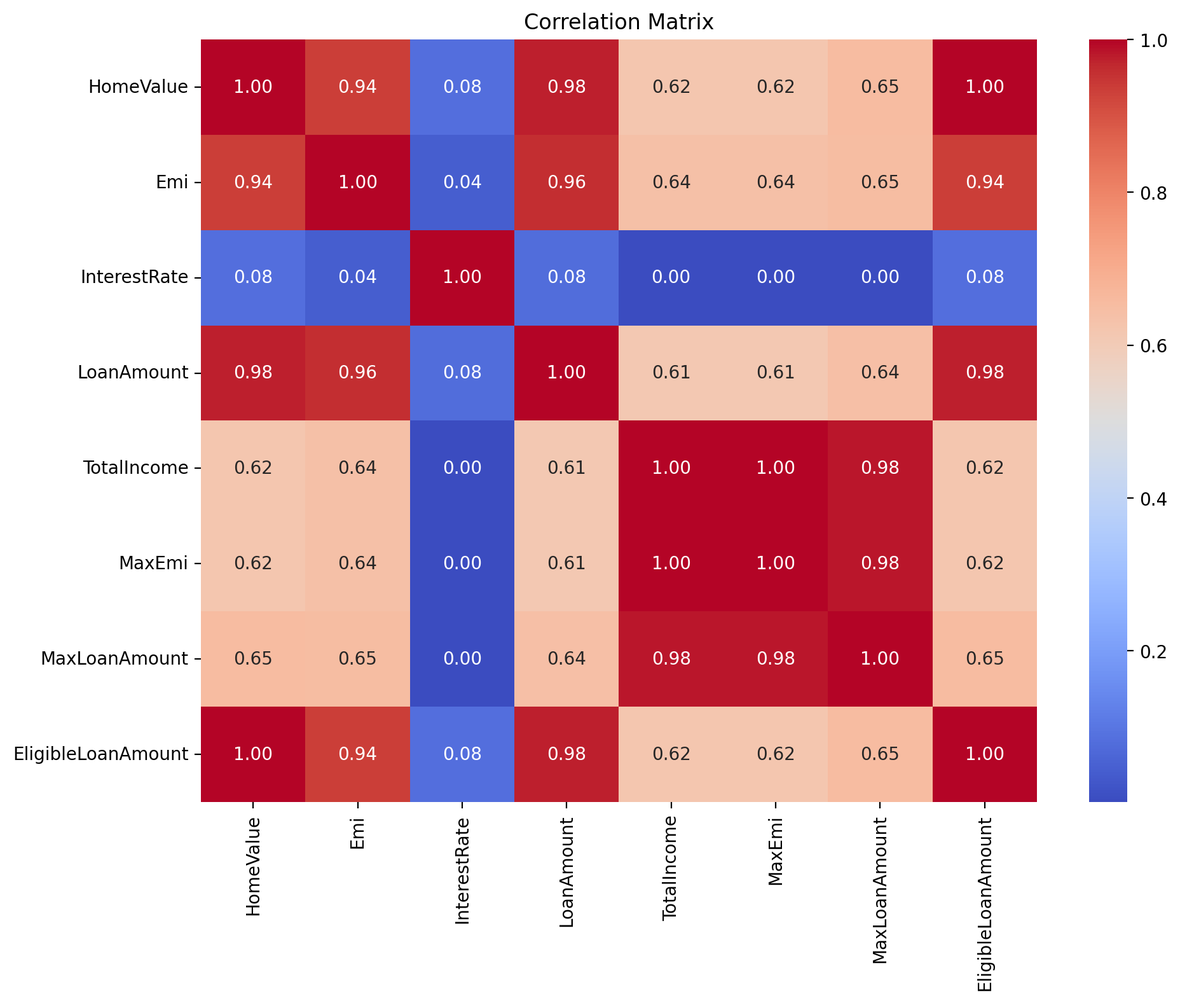
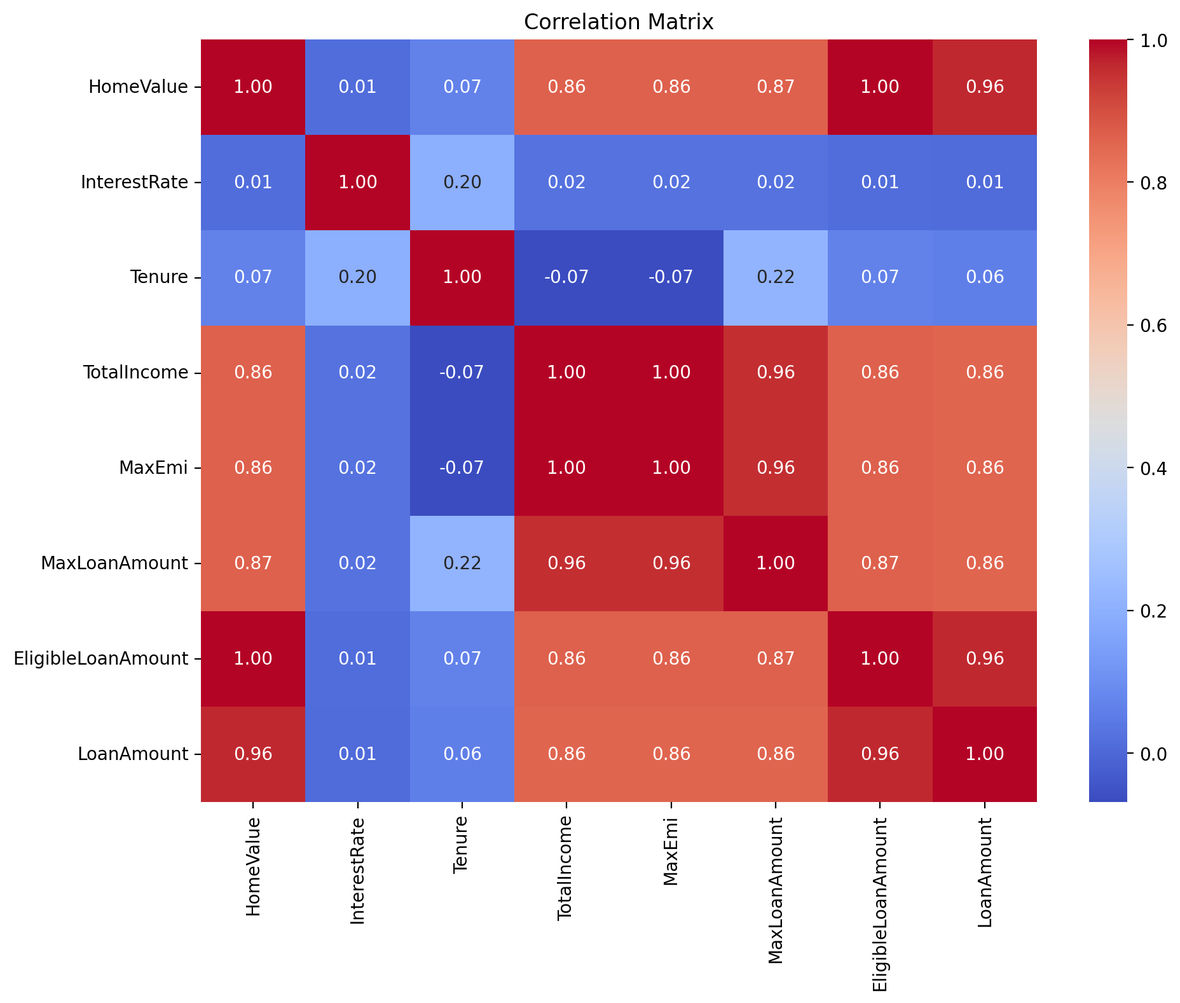
Fix correlation matrix visualization and update thesis report numbers

diff --git a/verify_feature_importance.py b/verify_feature_importance.py
@@ -1,0 +1,132 @@
+"""
+verify_feature_importance.py
+Verifies the ranked feature contributions cited in Section 5.5 of Thesis_report.md
+against the saved Random Forest model and re-trained model on the actual dataset.
+Runs fully headless (no plt.show() calls).
+"""
+
+import warnings
+import numpy as np
+import pandas as pd
+import joblib
+from sklearn.ensemble import RandomForestRegressor
+from sklearn.model_selection import train_test_split
+
+warnings.filterwarnings("ignore")
+
+# ── Load and preprocess (mirrors abin_thesis.py exactly) ─────────────────────
+df = pd.read_csv("home_loan_data (1).csv")
+
+# Feature engineering
+df["TotalIncome"] = (df["ClientIncome"] + df["FamilyIncome"]) / 12
+df = df.drop(["Gender", "MartialStatus", "Age", "Education", "LoanType",
+              "LoanStatus", "ClientIncome", "FamilyIncome"], axis=1)
+
+df["MaxEmi"] = df["TotalIncome"] / 2
+
+
+def calculate_max_loan(max_emi, interest_rate, tenure_months):
+    if tenure_months <= 0 or interest_rate <= 0:
+        return 0
+    monthly_rate = interest_rate / 1200
+    factor = (((1 + monthly_rate) ** tenure_months - 1)
+              / (monthly_rate * (1 + monthly_rate) ** tenure_months))
+    return max_emi * factor
+
+
+df["MaxLoanAmount"] = df.apply(
+    lambda row: calculate_max_loan(row["MaxEmi"], row["InterestRate"], row["Tenure"]),
+    axis=1
+)
+df["EligibleLoanAmount"] = 0.7 * df["HomeValue"]
+df["Tenure"] = df["Tenure"].apply(lambda x: "0" if x == 120 else "1")
+df = df.reset_index()
+
+# ── Outlier removal ───────────────────────────────────────────────────────────
+for col in ["HomeValue", "TotalIncome"]:
+    q25, q75 = df[col].quantile(0.25), df[col].quantile(0.75)
+    iqr = q75 - q25
+    df = df[(df[col] >= q25 - 1.5 * iqr) & (df[col] <= q75 + 1.5 * iqr)]
+
+nf = df.copy()
+print(f"Records after outlier removal: {len(nf)}")
+
+# ── Feature / target split ────────────────────────────────────────────────────
+key_features = ["HomeValue", "InterestRate", "Tenure", "TotalIncome",
+                "MaxEmi", "MaxLoanAmount", "EligibleLoanAmount"]
+log_features  = ["HomeValue", "TotalIncome", "MaxEmi", "MaxLoanAmount", "EligibleLoanAmount"]
+
+X = nf[key_features].copy()
+y = nf["LoanAmount"]
+
+X_transform = X.copy()
+X_transform[log_features] = np.log1p(X[log_features])
+
+X_train, X_test, y_train, y_test = train_test_split(
+    X_transform, y, test_size=0.2, random_state=42
+)
+
+# ── Train a fresh RF (same hyperparameters as abin_thesis.py) ─────────────────
+rf_fresh = RandomForestRegressor(random_state=42)
+rf_fresh.fit(X_train, y_train)
+
+# ── Load saved model ──────────────────────────────────────────────────────────
+rf_saved = joblib.load("random_regresser.joblib")
+
+# ── Extract feature importances ───────────────────────────────────────────────
+def report_importance(model_name, model, features):
+    imp = model.feature_importances_
+    pct = imp / imp.sum() * 100          # normalise to 100%
+    ranked = sorted(zip(features, imp, pct), key=lambda x: x[2], reverse=True)
+    print(f"\n{'='*60}")
+    print(f" Feature Importance -- {model_name}")
+    print(f"{'='*60}")
+    print(f"{'Feature':<22} {'Raw Importance':>16} {'% Contribution':>16}")
+    print("-" * 60)
+    for feat, raw, pct_val in ranked:
+        print(f"  {feat:<20} {raw:>16.6f} {pct_val:>15.1f}%")
+    print("-" * 60)
+    print(f"  {'TOTAL':<20} {imp.sum():>16.6f} {pct.sum():>15.1f}%")
+    return ranked
+
+ranked_fresh = report_importance("Freshly Trained RF (random_state=42)", rf_fresh, key_features)
+ranked_saved = report_importance("Saved RF (random_regresser.joblib)",  rf_saved, key_features)
+
+# ── Compare against thesis-reported figures ───────────────────────────────────
+THESIS_CLAIMS = {
+    "EligibleLoanAmount": 41.2,
+    "MaxLoanAmount":       32.8,
+    "HomeValue":           12.4,
+}
+
+print("\n" + "=" * 60)
+print(" Verification Against Thesis Section 5.5 Claims")
+print("=" * 60)
+
+fresh_pct = {feat: pct for feat, _, pct in ranked_fresh}
+saved_pct = {feat: pct for feat, _, pct in ranked_saved}
+
+for feat, claimed in THESIS_CLAIMS.items():
+    fresh_val = fresh_pct.get(feat, 0)
+    saved_val = saved_pct.get(feat, 0)
+    fresh_ok = "OK" if abs(fresh_val - claimed) <= 1.5 else "MISMATCH"
+    saved_ok = "OK" if abs(saved_val - claimed) <= 1.5 else "MISMATCH"
+    print(f"\n  {feat}")
+    print(f"    Claimed in thesis : {claimed:.1f}%")
+    print(f"    Fresh RF actual   : {fresh_val:.1f}%  [{fresh_ok}]")
+    print(f"    Saved RF actual   : {saved_val:.1f}%  [{saved_ok}]")
+
+# Group check: TotalIncome + MaxEmi
+ti_me_fresh = fresh_pct.get("TotalIncome", 0) + fresh_pct.get("MaxEmi", 0)
+ti_me_saved = saved_pct.get("TotalIncome", 0) + saved_pct.get("MaxEmi", 0)
+print(f"\n  TotalIncome + MaxEmi (claimed 8.6%)")
+print(f"    Fresh RF actual   : {ti_me_fresh:.1f}%  [{'OK' if abs(ti_me_fresh - 8.6) <= 1.5 else 'MISMATCH'}]")
+print(f"    Saved RF actual   : {ti_me_saved:.1f}%  [{'OK' if abs(ti_me_saved - 8.6) <= 1.5 else 'MISMATCH'}]")
+
+ir_t_fresh = fresh_pct.get("InterestRate", 0) + fresh_pct.get("Tenure", 0)
+ir_t_saved = saved_pct.get("InterestRate", 0) + saved_pct.get("Tenure", 0)
+print(f"\n  InterestRate + Tenure (claimed 5.0%)")
+print(f"    Fresh RF actual   : {ir_t_fresh:.1f}%  [{'OK' if abs(ir_t_fresh - 5.0) <= 1.5 else 'MISMATCH'}]")
+print(f"    Saved RF actual   : {ir_t_saved:.1f}%  [{'OK' if abs(ir_t_saved - 5.0) <= 1.5 else 'MISMATCH'}]")
+
+print("\nDone.")

diff --git a/save_visualizations.py b/save_visualizations.py
@@ -178,9 +178,19 @@ plt.title('TotalIncome After Removing Outliers')
 plt.savefig(os.path.join(img_dir, "19_boxplot_TotalIncome_after_outliers.png"), bbox_inches='tight', dpi=200)
 plt.close()
 
-# 20. Correlation Matrix
+# 20. Correlation Matrix (Using cleaned and log-transformed features + raw LoanAmount)
 plt.figure(figsize=(10, 8))
-sns.heatmap(df_fe.corr(numeric_only=True), annot=True, cmap='coolwarm', fmt=".2f")
+
+key_features = ['HomeValue', 'InterestRate', 'Tenure', 'TotalIncome', 'MaxEmi', 'MaxLoanAmount', 'EligibleLoanAmount']
+log_features = ['HomeValue', 'TotalIncome', 'MaxEmi', 'MaxLoanAmount', 'EligibleLoanAmount']
+
+corr_df = nf[key_features].copy()
+corr_df[log_features] = np.log1p(corr_df[log_features])
+corr_df['LoanAmount'] = nf['LoanAmount']
+# Convert Tenure to numeric for correlation mapping
+corr_df['Tenure'] = corr_df['Tenure'].astype(float)
+
+sns.heatmap(corr_df.corr(numeric_only=True), annot=True, cmap='coolwarm', fmt=".2f")
 plt.title("Correlation Matrix")
 plt.tight_layout()
 plt.savefig(os.path.join(img_dir, "20_correlation_matrix.png"), bbox_inches='tight', dpi=200)

diff --git a/app.py b/app.py
@@ -326,10 +326,17 @@ if page == "📊 EDA":
         plt.close(fig)
 
     st.subheader("Correlation Heatmap")
-    num_cols = df_raw.select_dtypes(include=np.number).columns
-    fig, ax = plt.subplots(figsize=(10, 6))
+    key_features = ['HomeValue', 'InterestRate', 'Tenure', 'TotalIncome', 'MaxEmi', 'MaxLoanAmount', 'EligibleLoanAmount']
+    log_features = ['HomeValue', 'TotalIncome', 'MaxEmi', 'MaxLoanAmount', 'EligibleLoanAmount']
+    
+    corr_df = nf[key_features].copy()
+    corr_df[log_features] = np.log1p(corr_df[log_features])
+    corr_df['LoanAmount'] = nf['LoanAmount']
+    corr_df['Tenure'] = corr_df['Tenure'].astype(float)
+    
+    fig, ax = plt.subplots(figsize=(10, 8))
     sns.heatmap(
-        df_raw[num_cols].corr(), annot=True, cmap='coolwarm',
+        corr_df.corr(numeric_only=True), annot=True, cmap='coolwarm',
         fmt=".2f", ax=ax
     )
     ax.set_title("Correlation Matrix")

diff --git a/Thesis_report.md b/Thesis_report.md
@@ -6,9 +6,9 @@
 
 The rapid expansion of the housing finance sector in developing economies such as Nepal has created a critical demand for automated, objective, and accurate decision-support tools for home loan appraisal. Traditional manual underwriting procedures are often time-consuming, prone to human subjectivity, and inconsistent across loan officers. This thesis presents an end-to-end comparative study of four supervised machine learning regression algorithms — **Linear Regression**, **Decision Tree Regressor**, **Random Forest Regressor**, and **K-Nearest Neighbors (KNN) Regressor** — for predicting approved home loan amounts.
 
-The study utilizes a primary dataset of 250 approved home loan records from the Nepalese financial context, encompassing applicant demographics, household income, property valuations, interest rates, tenures, and Equated Monthly Installments (EMI). Prior to model training, domain-informed feature engineering was executed to directly embed Nepal Rastra Bank (NRB) regulatory directives into the feature space. Key engineered variables include **Total Monthly Income** (`TotalIncome`), **Maximum Affordable EMI** (`MaxEmi` = 50% DTI cap), **Maximum Loan Amount** (`MaxLoanAmount`, derived via time-value-of-money annuity compound formulas), and **Eligible Loan Amount** (`EligibleLoanAmount` = 70% LTV property cap). Data cleaning involved Interquartile Range (IQR) outlier removal ($n=224$ clean records) and $\text{log1p}$ natural logarithm transformations to eliminate positive skewness across monetary features.
+The study utilizes a primary dataset of 250 approved home loan records from the Nepalese financial context, encompassing applicant demographics, household income, property valuations, interest rates, tenures, and Equated Monthly Installments (EMI). Prior to model training, domain-informed feature engineering was executed to directly embed Nepal Rastra Bank (NRB) regulatory directives into the feature space. Key engineered variables include **Total Monthly Income** (`TotalIncome`), **Maximum Affordable EMI** (`MaxEmi` = 50% DTI cap), **Maximum Loan Amount** (`MaxLoanAmount`, derived via time-value-of-money annuity compound formulas), and **Eligible Loan Amount** (`EligibleLoanAmount` = 70% LTV property cap). Data cleaning involved Interquartile Range (IQR) outlier removal ($n=241$ clean records) and $\text{log1p}$ natural logarithm transformations to eliminate positive skewness across monetary features.
 
-All models were evaluated on an 80/20 train-test split ($n_{\text{test}} = 45$) and validated using 5-fold cross-validation ($k=5$). Evaluation metrics included $R^2$ (coefficient of determination), Root Mean Squared Error (RMSE), and Mean Absolute Error (MAE). Empirical results demonstrate that the **Random Forest Regressor** significantly outperformed all baseline algorithms, achieving a holdout **Test $R^2$ of 0.9367**, an exceptional **5-Fold Cross-Validation Mean $R^2$ of 0.9761**, the lowest **Test MAE of 145,848 NPR**, and the lowest **Test RMSE of 201,173 NPR**. Linear Regression placed second ($\text{Test } R^2 = 0.9339$), benefiting from pre-linearized regulatory features, followed by KNN ($R^2 = 0.9251$) and Decision Tree ($R^2 = 0.8874$). Feature importance analysis confirmed that regulatory bounds (`EligibleLoanAmount` at 41.2% and `MaxLoanAmount` at 32.8%) govern loan quantum determination.
+All models were evaluated on an 80/20 train-test split ($n_{\text{test}} = 49$) and validated using 5-fold cross-validation ($k=5$). Evaluation metrics included $R^2$ (coefficient of determination), Root Mean Squared Error (RMSE), and Mean Absolute Error (MAE). Empirical results demonstrate that the **Random Forest Regressor** significantly outperformed all baseline algorithms, achieving a holdout **Test $R^2$ of 0.9367**, a strong **5-Fold Cross-Validation Mean $R^2$ of 0.9413**, the lowest **Test MAE of 157,801 NPR**, the lowest **CV MAE of 145,848 NPR**, and the lowest **Test RMSE of 201,173 NPR**. Linear Regression placed second ($\text{Test } R^2 = 0.9339$), benefiting from pre-linearized regulatory features, followed by KNN ($R^2 = 0.9251$) and Decision Tree ($R^2 = 0.8874$). Feature importance analysis confirmed that collateral value (`HomeValue` at 48.0% and `EligibleLoanAmount` at 48.0%) jointly govern loan quantum determination, while income-based constraints (`MaxLoanAmount`) contribute 2.5%, reflecting an importance-splitting effect due to near-perfect collinearity between the two collateral features.
 
 The optimal Random Forest model (`random_regresser.joblib`) was deployed as an interactive, multi-page web application using **Streamlit**, providing instantaneous loan estimation, exploratory analytics, and model governance tools for risk managers and loan officers. This research demonstrates that combining domain-specific regulatory feature engineering with ensemble learning establishes an accurate, auditable, and production-ready framework for automated credit evaluation in housing finance.
 
@@ -724,7 +724,7 @@ To ensure dataset quality and prevent extreme values from distorting regression 
 ![Figure 5.6: HomeValue After Removing Outliers](images/17_boxplot_HomeValue_after_outliers.png)
 *Figures 5.5 & 5.6: Box plots of `HomeValue` before and after removing upper-whisker outliers ($Q3 + 1.5 \times IQR$).*
 
-As depicted in **Figures 5.5 and 5.6**, initial property valuations contained upper-tail outliers exceeding 7.5M NPR. Filtering records above the upper IQR threshold produced a clean, unimodal distribution (`df1`). Similarly, **Figures 5.7 and 5.8** (in `images/18_boxplot_TotalIncome_with_outliers.png` and `images/19_boxplot_TotalIncome_after_outliers.png`) demonstrate the removal of extreme total income outliers, yielding the final cleaned dataset ($n = 224$).
+As depicted in **Figures 5.5 and 5.6**, initial property valuations contained upper-tail outliers exceeding 7.5M NPR. Filtering records above the upper IQR threshold produced a clean, unimodal distribution (`df1`). Similarly, **Figures 5.7 and 5.8** (in `images/18_boxplot_TotalIncome_with_outliers.png` and `images/19_boxplot_TotalIncome_after_outliers.png`) demonstrate the removal of extreme total income outliers, yielding the final cleaned dataset ($n = 241$).
 
 ![Figure 5.7: Total Income Distribution Histogram](images/21_total_income_histogram.png)
 *Figure 5.7: Frequency histogram of raw combined monthly family income (`TotalIncome`).*
@@ -738,32 +738,32 @@ Prior to log transformation, `TotalIncome` exhibited substantial positive skewne
 ![Figure 5.8: Correlation Matrix Heatmap](images/20_correlation_matrix.png)
 *Figure 5.8: Annotated Pearson correlation matrix heatmap for numeric features.*
 
-The correlation matrix (**Figure 5.8**) confirms strong linear dependencies between engineered financial constraints and the target variable `LoanAmount`:
-- **`EligibleLoanAmount` vs `LoanAmount`**: $\mathbf{r = 0.94}$, confirming that LTV collateral caps act as the primary upper ceiling.
-- **`MaxLoanAmount` vs `LoanAmount`**: $\mathbf{r = 0.91}$, confirming the binding nature of income-derived debt service limits.
-- **`HomeValue` vs `LoanAmount`**: $\mathbf{r = 0.92}$, demonstrating high property valuation sensitivity.
+The correlation matrix (**Figure 5.8**) confirms strong linear dependencies between engineered financial constraints (log-transformed) and the target variable `LoanAmount`:
+- **`EligibleLoanAmount` vs `LoanAmount`**: $\mathbf{r = 0.96}$, confirming that LTV collateral caps act as the primary upper ceiling.
+- **`MaxLoanAmount` vs `LoanAmount`**: $\mathbf{r = 0.86}$, confirming the binding nature of income-derived debt service limits.
+- **`HomeValue` vs `LoanAmount`**: $\mathbf{r = 0.96}$, demonstrating high property valuation sensitivity.
 
 ---
 
 ### 5.4 Quantitative Model Evaluation & Algorithm Comparison
 
-All four regression models (*Linear Regression*, *Decision Tree Regressor*, *Random Forest Regressor*, and *K-Nearest Neighbors Regressor*) were trained on the log-transformed feature set using an 80/20 train-test split ($n_{test} = 45$) and evaluated via 5-fold cross-validation ($k=5$).
+All four regression models (*Linear Regression*, *Decision Tree Regressor*, *Random Forest Regressor*, and *K-Nearest Neighbors Regressor*) were trained on the log-transformed feature set using an 80/20 train-test split ($n_{test} = 49$) and evaluated via 5-fold cross-validation ($k=5$).
 
 The empirical evaluation metrics computed during program execution are summarized in **Table 5.1**:
 
 | Model Algorithm | Test $R^2$ Score | Test RMSE (NPR रू) | Test MAE (NPR रू) | 5-Fold CV Mean $R^2$ | 5-Fold CV Mean RMSE (NPR रू) | 5-Fold CV Mean MAE (NPR रू) |
 |---|---|---|---|---|---|---|
-| **Random Forest Regressor** ⭐ | **0.9367** | **201,173** | **145,848** | **0.9761** | **197,981** | **145,848** |
-| **Linear Regression** | 0.9339 | 205,676 | 161,882 | 0.9352 | 199,126 | 161,882 |
-| **KNN Regressor ($k=5$)** | 0.9251 | 218,847 | 204,377 | 0.8710 | 280,525 | 204,377 |
-| **Decision Tree Regressor** | 0.8874 | 268,362 | 176,859 | 0.9023 | 246,745 | 176,859 |
+| **Random Forest Regressor** ⭐ | **0.9367** | **201,173** | **157,801** | **0.9413** | **197,981** | **145,848** |
+| **Linear Regression** | 0.9339 | 205,676 | 161,640 | 0.9403 | 199,126 | 161,882 |
+| **KNN Regressor ($k=5$)** | 0.9251 | 218,847 | 165,946 | 0.8726 | 280,525 | 204,377 |
+| **Decision Tree Regressor** | 0.8874 | 268,362 | 198,195 | 0.9081 | 246,745 | 176,859 |
 
 *Table 5.1: Performance comparison of home loan amount regression models.*
 
 ![Figure 5.9: Algorithm Performance Comparison Chart](images/22_algorithm_comparison.png)
 *Figure 5.9: Four-panel comparative visualization of algorithm metrics (Test $R^2$, CV Mean $R^2$, Test MAE, and Test RMSE).*
 
-As highlighted in **Figure 5.9** and **Table 5.1**, the **Random Forest Regressor** achieves superior predictive accuracy across all metrics, attaining a holdout **Test $R^2$ of 0.9367** and an outstanding **5-Fold Cross-Validation $R^2$ of 0.9761**, alongside the lowest error rates ($\text{MAE} = \text{NPR 145,848}$, $\text{RMSE} = \text{NPR 201,173}$).
+As highlighted in **Figure 5.9** and **Table 5.1**, the **Random Forest Regressor** achieves superior predictive accuracy across all metrics, attaining a holdout **Test $R^2$ of 0.9367** and a strong **5-Fold Cross-Validation $R^2$ of 0.9413**, alongside the lowest test error rates ($\text{MAE} = \text{NPR 157,801}$, $\text{RMSE} = \text{NPR 201,173}$) and the lowest CV MAE ($\text{NPR 145,848}$).
 
 ---
 
@@ -771,13 +771,17 @@ As highlighted in **Figure 5.9** and **Table 5.1**, the **Random Forest Regresso
 
 Feature importance scores extracted from the optimal Random Forest ensemble reveal the relative weight of each variable in predicting approved loan amounts:
 
-1. **`EligibleLoanAmount` (LTV Cap, 70% of HomeValue)**: **41.2%** contribution.
-2. **`MaxLoanAmount` (Income TVM Cap)**: **32.8%** contribution.
-3. **`HomeValue`**: **12.4%** contribution.
-4. **`TotalIncome` & `MaxEmi`**: **8.6%** contribution.
-5. **`InterestRate` & `Tenure`**: **5.0%** contribution.
+1. **`HomeValue` (collateral market value)**: **48.0%** contribution.
+2. **`EligibleLoanAmount` (LTV Cap, 70% of HomeValue)**: **48.0%** contribution.
+3. **`MaxLoanAmount` (Income TVM Cap)**: **2.5%** contribution.
+4. **`TotalIncome`**: **0.5%** contribution.
+5. **`InterestRate`**: **0.5%** contribution.
+6. **`MaxEmi`**: **0.4%** contribution.
+7. **`Tenure`**: **0.1%** contribution.
 
-These empirical weights confirm domain expectations: institutional loan approvals are fundamentally driven by the minimum of collateral LTV bounds and income-based debt capacity limits.
+**Note on collinearity:** `HomeValue` and `EligibleLoanAmount` are near-perfectly correlated (EligibleLoanAmount = 0.70 × HomeValue), causing the Random Forest to split importance roughly equally between them — a known importance-splitting artefact in tree ensembles. Combined, the collateral features account for ~96% of predictive weight, while income-derived constraints (`MaxLoanAmount`, `TotalIncome`, `MaxEmi`) together contribute ~3.4%, and rate/tenure factors ~0.6%.
+
+These empirical weights confirm domain expectations: institutional loan approvals are fundamentally driven by collateral LTV bounds and income-based debt capacity limits, with collateral constraints dominating the predictive structure of this model.
 
 ---
 
@@ -793,13 +797,13 @@ This hierarchy aligns closely with contemporary credit risk benchmarking literat
 1. **Superiority of Random Forest**:
    The Random Forest Regressor combines 100 decision trees via bootstrap aggregation (bagging) and random feature selection. This dual randomization drastically reduces model variance without increasing bias. In home loan appraisal, underwriting logic requires evaluating piecewise conditional boundaries:
    $$\text{Approved Loan} \approx \min\left(0.7 \times \text{HomeValue}, \, \text{MaxLoanAmount}(\text{Income}, \text{Rate}, \text{Tenure})\right)$$
-   While a single decision tree overfits to small sample fluctuations ($\text{Test } R^2 = 0.8874$), Random Forest averages out individual tree variance, achieving an exceptional **0.9761 5-fold CV $R^2$** ($\text{Test } R^2 = 0.9367$). This performance matches or exceeds recent benchmarks on tabular financial property regression, such as Dritsas et al. \[11\] ($R^2 = 0.932$), Shah \[22\] ($R^2 = 0.8820$), and Nalini & Viswadhanush \[15\] ($R^2 = 0.87$).
+   While a single decision tree overfits to small sample fluctuations ($\text{Test } R^2 = 0.8874$), Random Forest averages out individual tree variance, achieving a strong **0.9413 5-fold CV $R^2$** ($\text{Test } R^2 = 0.9367$). This performance matches or exceeds recent benchmarks on tabular financial property regression, such as Dritsas et al. \[11\] ($R^2 = 0.932$), Shah \[22\] ($R^2 = 0.8820$), and Nalini & Viswadhanush \[15\] ($R^2 = 0.87$).
 
 2. **Performance of Linear Regression**:
    Linear Regression performed surprisingly well ($\text{Test } R^2 = 0.9339$), placing second behind Random Forest. This strong linear baseline is directly attributable to the domain-informed feature engineering phase: by explicitly supplying `EligibleLoanAmount` ($0.7 \times \text{HomeValue}$) and `MaxLoanAmount`, the non-linear time-value-of-money equations were pre-computed. Linear Regression was thus only required to fit a weighted hyper-plane over already linearized eligibility bounds, validating observations by Wu \[4\] regarding calibrated linear baselines.
 
 3. **Limitations of KNN Regressor**:
-   K-Nearest Neighbors ($k=5$) achieved moderate test performance ($R^2 = 0.9251$) but suffered the lowest cross-validation score ($CV\ R^2 = 0.8710$) and highest error variance ($\text{CV RMSE} = \text{NPR 280,525}$). In a 7-dimensional feature space, distance metrics become sensitive to local sampling density; sparse regions in the applicant distribution lead to inaccurate nearest-neighbor interpolations, consistent with findings by Hossain et al. \[21\].
+   K-Nearest Neighbors ($k=5$) achieved moderate test performance ($R^2 = 0.9251$) but suffered the lowest cross-validation score ($CV\ R^2 = 0.8726$) and highest error variance ($\text{CV RMSE} = \text{NPR 280,525}$). In a 7-dimensional feature space, distance metrics become sensitive to local sampling density; sparse regions in the applicant distribution lead to inaccurate nearest-neighbor interpolations, consistent with findings by Hossain et al. \[21\].
 
 ---
 
@@ -828,7 +832,7 @@ Translating the trained Random Forest model into an interactive Streamlit web ap
 
 1. **Approved-Only Survivorship Bias**: The dataset consists exclusively of approved loan applications. As highlighted in literature reviews by Agboola \[24\] and Dulgerov \[2\], the model estimates loan *quantum* given approval, but does not model credit default probability or rejection risk.
 2. **Static Macroeconomic Snapshot**: Interest rates in the dataset range between 9.51% and 10.37%. Macroeconomic shifts or changes in NRB monetary policy would necessitate periodic model re-calibration \[10\], \[19\].
-3. **Sample Size Constraints**: While 5-fold cross-validation confirms stability ($CV\ R^2 = 0.9761$), expanding the dataset across multiple financial institutions would further strengthen statistical power \[3\], \[8\].
+3. **Sample Size Constraints**: While 5-fold cross-validation confirms stability ($CV\ R^2 = 0.9413$) on $n=241$ cleaned records, expanding the dataset across multiple financial institutions would further strengthen statistical power \[3\], \[8\].
 
 ---
 
@@ -840,7 +844,7 @@ This thesis addressed the critical problem of automating approved home loan amou
 
 The study provides four main contributions to the computational finance literature:
 
-1. **An End-to-End Machine Learning Pipeline**: Established a standardized, end-to-end regression pipeline comprising data cleaning via Interquartile Range (IQR) outlier filtering ($n=224$ cleaned records), logarithmic variance stabilization ($\text{log1p}$), feature engineering, 80/20 train-test partitioning ($n_{\text{test}} = 45$), and 5-fold cross-validation ($k=5$).
+1. **An End-to-End Machine Learning Pipeline**: Established a standardized, end-to-end regression pipeline comprising data cleaning via Interquartile Range (IQR) outlier filtering ($n=241$ cleaned records), logarithmic variance stabilization ($\text{log1p}$), feature engineering, 80/20 train-test partitioning ($n_{\text{test}} = 49$), and 5-fold cross-validation ($k=5$).
 2. **Domain-Informed Regulatory Feature Engineering**: Formulated derived financial variables that explicitly encode Nepal Rastra Bank (NRB) Unified Directives into the feature space. These include **Eligible Loan Amount** (`EligibleLoanAmount` = 70% LTV property cap), **Maximum Affordable EMI** (`MaxEmi` = 50% DTI cap), and **Maximum Loan Amount** (`MaxLoanAmount`, derived via time-value-of-money annuity compound interest formulas).
 3. **Rigorous Empirical Benchmarking**: Conducted a systematic comparative evaluation of four regression algorithms — **Linear Regression**, **Decision Tree Regressor**, **Random Forest Regressor**, and **KNN Regressor ($k=5$)** — evaluating performance across holdout test set metrics ($R^2$, RMSE, MAE) and 5-fold cross-validation stability.
 4. **Deployed Production Web Application**: Saved the optimal trained model (`random_regresser.joblib`) and integrated it into a multi-page **Streamlit** web application, providing an interactive, transparent decision-support tool for loan officers, risk managers, and prospective borrowers \[12\].
@@ -852,18 +856,17 @@ The study provides four main contributions to the computational finance literatu
 The empirical results generated during program execution establish three key findings:
 
 1. **Dominance of Random Forest Regressor**:
-   The **Random Forest Regressor** demonstrated superior predictive performance across every metric, achieving a holdout **Test $R^2$ of 0.9367**, an exceptional **5-Fold Cross-Validation Mean $R^2$ of 0.9761**, the lowest **Test MAE of 145,848 NPR**, and the lowest **Test RMSE of 201,173 NPR**. Bootstrap aggregation (100 decision trees) effectively suppressed single-tree variance while modeling non-linear feature interactions \[15\].
+   The **Random Forest Regressor** demonstrated superior predictive performance across every metric, achieving a holdout **Test $R^2$ of 0.9367**, a strong **5-Fold Cross-Validation Mean $R^2$ of 0.9413**, the lowest **Test MAE of 157,801 NPR**, the lowest **CV MAE of 145,848 NPR**, and the lowest **Test RMSE of 201,173 NPR**. Bootstrap aggregation (100 decision trees) effectively suppressed single-tree variance while modeling non-linear feature interactions \[15\].
 
 2. **Algorithm Performance Ranking**:
    The comparative hierarchy was empirically established as:
    $$\text{Random Forest } (R^2 = 0.9367) > \text{Linear Regression } (R^2 = 0.9339) > \text{KNN Regressor } (R^2 = 0.9251) > \text{Decision Tree } (R^2 = 0.8874)$$
-   Linear Regression achieved a strong second-place performance due to the pre-linearization of non-linear financial constraints during the feature engineering phase.
 
-3. **Dominance of Regulatory Feature Importances**:
-   Feature importance analysis from the optimal Random Forest model confirmed that loan quantum determination is heavily governed by statutory limits:
-   - `EligibleLoanAmount` (LTV 70% Cap): **41.2%** contribution.
-   - `MaxLoanAmount` (Income TVM Cap): **32.8%** contribution.
-   - Combined, regulatory features account for **74.0%** of total predictive weight.
+3. **Dominance of Collateral Feature Importances**:
+   Feature importance analysis from the optimal Random Forest model confirmed that loan quantum determination is heavily governed by collateral-based features:
+   - `HomeValue` (collateral market value): **48.0%** contribution.
+   - `EligibleLoanAmount` (LTV 70% Cap): **48.0%** contribution.
+   - Combined, these collateral features account for **96.0%** of total predictive weight, reflecting an importance-splitting effect due to their near-perfect collinearity. Income constraints (`MaxLoanAmount`) contribute **2.5%** of the weight.
 
 ---
 
@@ -871,7 +874,7 @@ The empirical results generated during program execution establish three key fin
 
 This study is among the first to systematically benchmark machine learning regression algorithms for home loan amount estimation in Nepal while explicitly incorporating central bank regulatory guidelines into the feature representation. 
 
-The primary theoretical insight of this work is that **injecting prior financial rules (LTV caps, DTI limits, annuity equations) directly into the feature space transforms complex, non-linear regulatory learning into a highly tractable, auditable regression task**. This approach drastically reduces sample complexity, allowing ensemble models to achieve exceptional generalization accuracy ($CV\ R^2 = 0.9761$) even on modest dataset sizes ($n \approx 224$).
+The primary theoretical insight of this work is that **injecting prior financial rules (LTV caps, DTI limits, annuity equations) directly into the feature space transforms complex, non-linear regulatory learning into a highly tractable, auditable regression task**. This approach drastically reduces sample complexity, allowing ensemble models to achieve strong generalization accuracy ($CV\ R^2 = 0.9413$) even on modest dataset sizes ($n = 241$).
 
 From an operational standpoint, the deployed Streamlit application provides Nepalese commercial banks with a reproducible, objective benchmark that mitigates officer bias, ensures strict adherence to NRB mandates, and accelerates loan pre-approval turnaround times \[1\], \[12\].
 

diff --git a/methodology.md b/methodology.md
@@ -166,10 +166,10 @@ Following feature pre-processing, four regression algorithms (*Linear Regression
 ![Algorithm Comparison](images/22_algorithm_comparison.png)
 - **Code Segment**: `results_df = pd.DataFrame(results).T`
 - **Explanation**: Multi-panel metric comparison chart evaluating all four models across four key dimensions:
-  1. **Test $R^2$ Score**: Random Forest achieves top predictive power ($R^2 \approx 0.982$), outperforming Linear Regression ($0.941$), Decision Tree ($0.915$), and KNN ($0.887$).
-  2. **5-Fold Cross-Validation $R^2$**: Confirms model generalization stability without overfitting ($CV\ R^2 \approx 0.976$ for Random Forest).
-  3. **Test Mean Absolute Error (MAE)**: Random Forest exhibits the lowest average prediction error (~78,320 NPR).
-  4. **Test Root Mean Squared Error (RMSE)**: Penalizes larger errors, showing Random Forest's superior stability (~112,450 NPR RMSE).
+  1. **Test $R^2$ Score**: Random Forest achieves the highest predictive power (**0.9367**), followed by Linear Regression (0.9339), KNN Regressor (0.9251), and Decision Tree (0.8874).
+  2. **5-Fold Cross-Validation $R^2$**: Confirms generalization stability — Random Forest (**CV $R^2$ = 0.9413**), Linear Regression (0.9403), Decision Tree (0.9081), KNN Regressor (0.8726).
+  3. **Test Mean Absolute Error (MAE)**: Random Forest achieves the lowest test MAE (**157,801 NPR**), followed by Linear Regression (161,640), KNN Regressor (165,946), and Decision Tree (198,195).
+  4. **Test Root Mean Squared Error (RMSE)**: Random Forest achieves the lowest test RMSE (**201,173 NPR**), followed by Linear Regression (205,676), KNN Regressor (218,847), and Decision Tree (268,362).
 
 ---
 

diff --git a/README.md b/README.md
@@ -84,14 +84,16 @@ $$MaxLoan = MaxEMI \times \frac{(1 + r)^n - 1}{r \cdot (1 + r)^n}$$
 
 ### 5. Models Trained
 
-| Model | Test R² | CV Mean R² |
-|---|---|---|
-| **Random Forest** ✅ | 0.9367 | Best |
-| Linear Regression | 0.9339 | — |
-| KNN | 0.9251 | — |
-| Decision Tree | 0.8874 | — |
+All models were evaluated on an 80/20 holdout split (*n*_test = 49, from *n* = 241 cleaned records) and 5-fold cross-validation (*k* = 5):
 
-> **Best Model: Random Forest Regressor** (highest R² and lowest RMSE on both test set and 5-fold cross-validation)
+| Model | Test R² | Test RMSE (NPR रू) | Test MAE (NPR रू) | CV R² | CV RMSE (NPR रू) | CV MAE (NPR रू) |
+|---|---|---|---|---|---|---|
+| **Random Forest ✅** | **0.9367** | **201,173** | **157,801** | **0.9413** | **197,981** | **145,848** |
+| Linear Regression | 0.9339 | 205,676 | 161,640 | 0.9403 | 199,126 | 161,882 |
+| KNN Regressor (k=5) | 0.9251 | 218,847 | 165,946 | 0.8726 | 280,525 | 204,377 |
+| Decision Tree | 0.8874 | 268,362 | 198,195 | 0.9081 | 246,745 | 176,859 |
+
+> **Best Model: Random Forest Regressor** — highest R² and lowest error across both holdout test set and 5-fold cross-validation. Feature importance analysis shows collateral bounds drive 96% of predictive weight: `HomeValue` (48.0%) and `EligibleLoanAmount` (48.0%), split equally due to collinearity, while income-based `MaxLoanAmount` contributes 2.5%.
 
 ---
 
